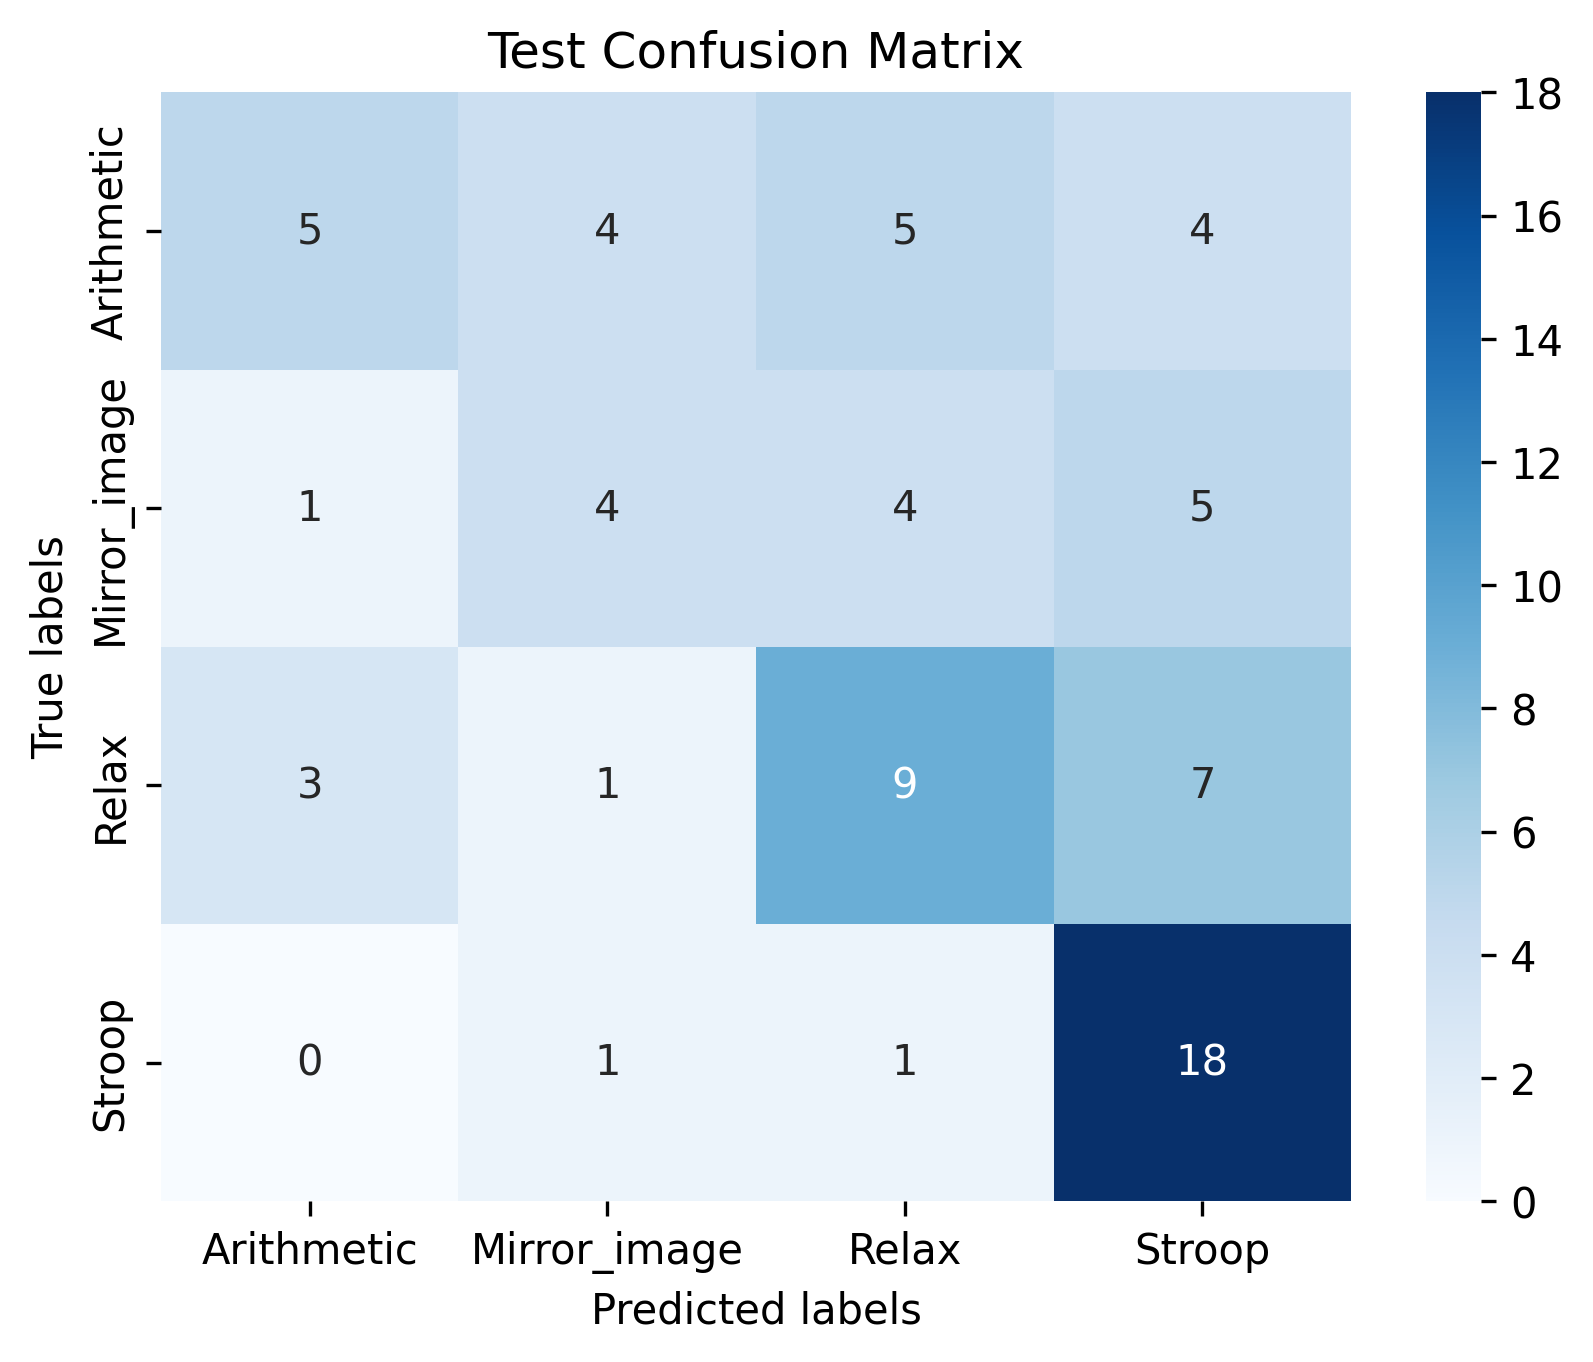
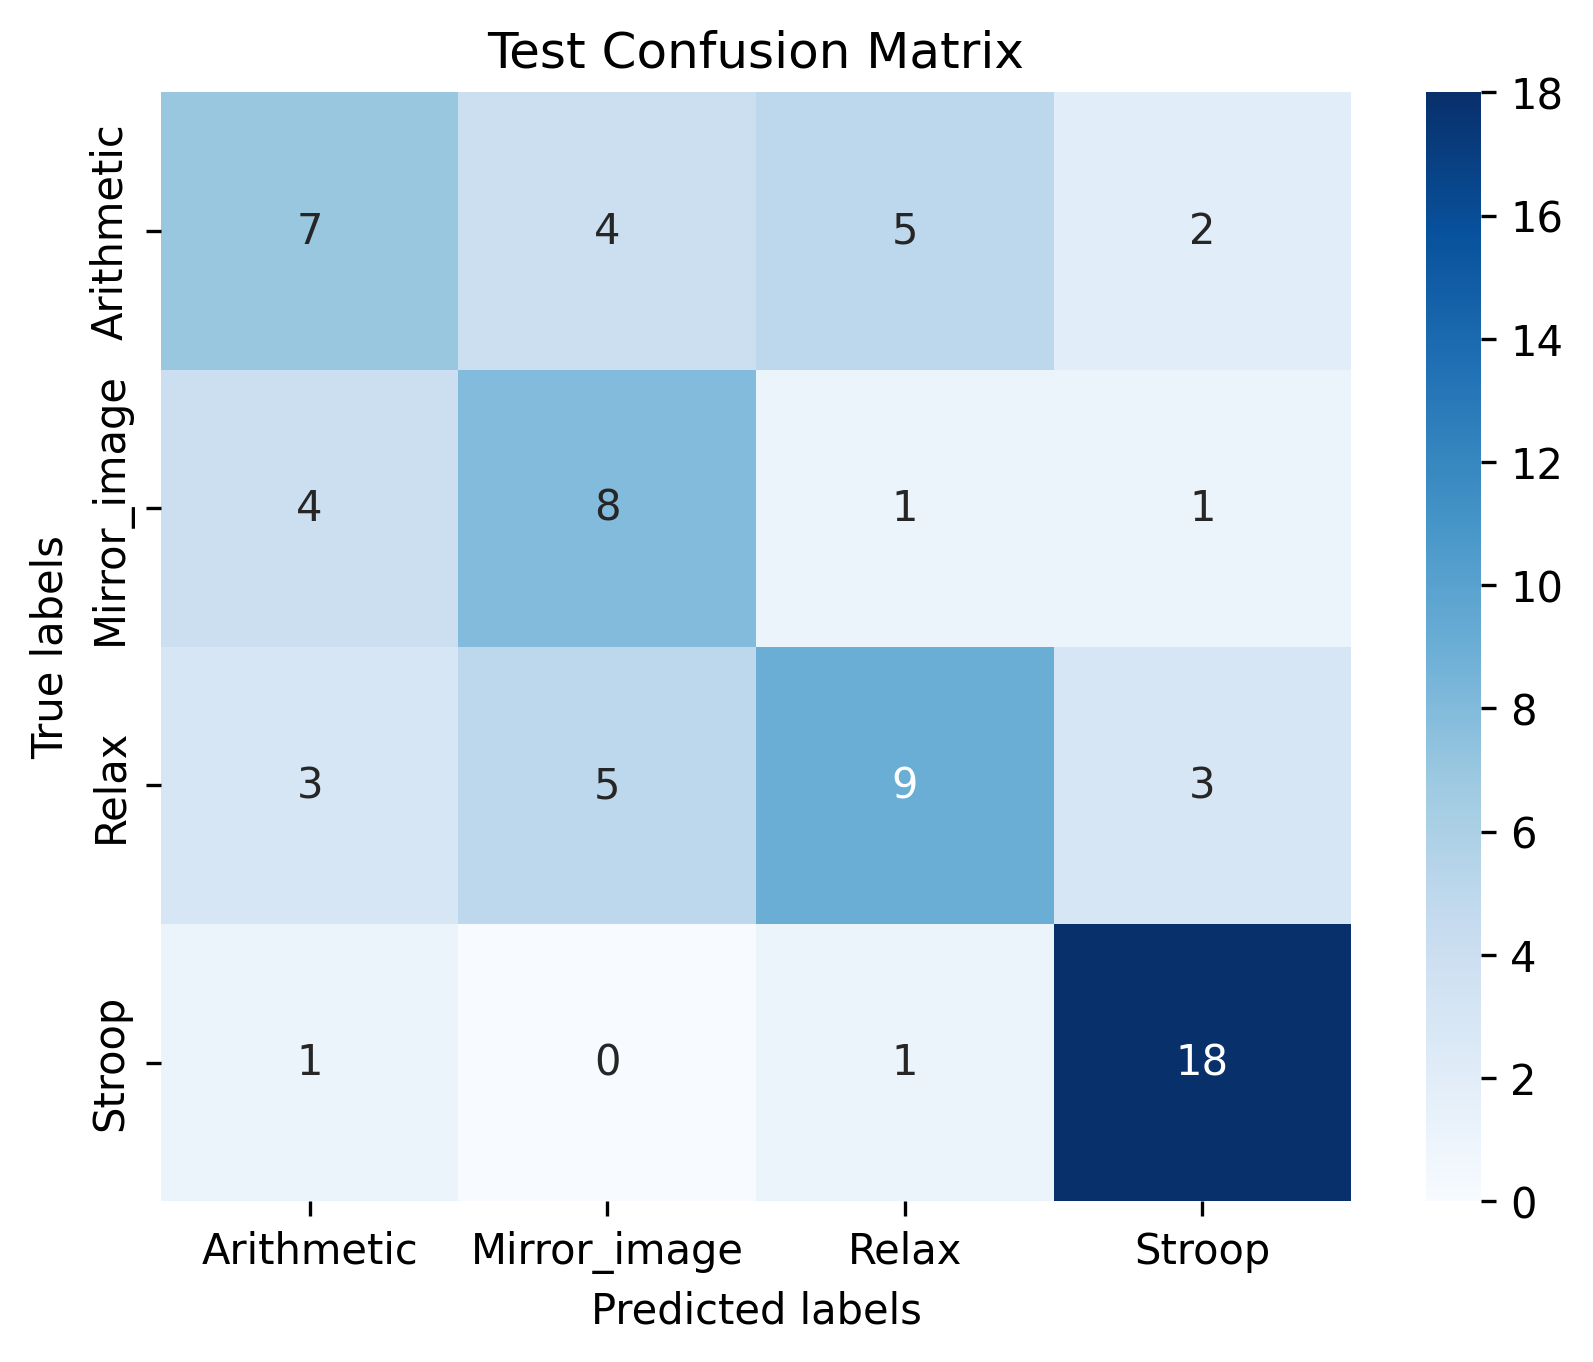
better

diff --git a/EEG-classification/the_ml/bigmodel.py b/EEG-classification/the_ml/bigmodel.py
@@ -9,10 +9,10 @@ def model(x_example, hyperparameters):
     return nn.Sequential(
         nn.BatchNorm2d(num_channels),
         ConvLayer(num_channels, num_channels*4, 0.5, 5),
-        ConvLayer(num_channels*4, num_channels*2, 0.5, 5),
-        ConvLayer(num_channels*2, num_channels, 0.5, 5),
+        ConvLayer(num_channels*4, num_channels*2, 0.4, 5),
+        ConvLayer(num_channels*2, num_channels, 0.4, 5),
         nn.Flatten(),
-        LinearLayer(num_channels*h*w, 128, 0.8),
+        LinearLayer(num_channels*h*w, 128, 0.75),
         nn.Linear(128, 4)
     )
 
